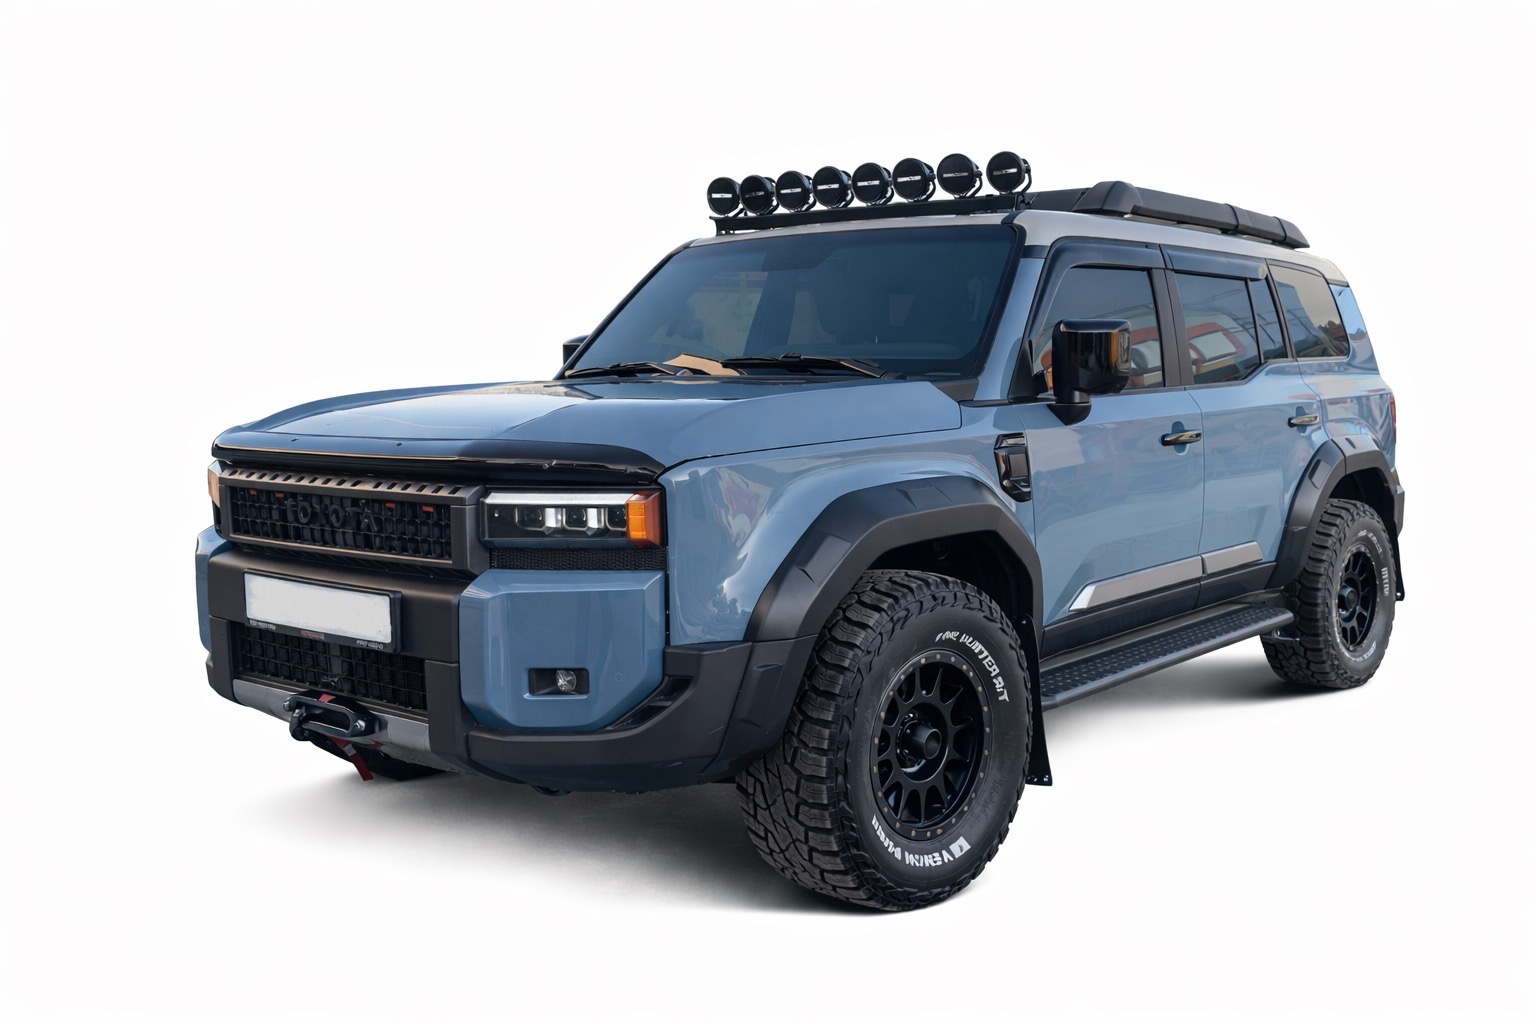
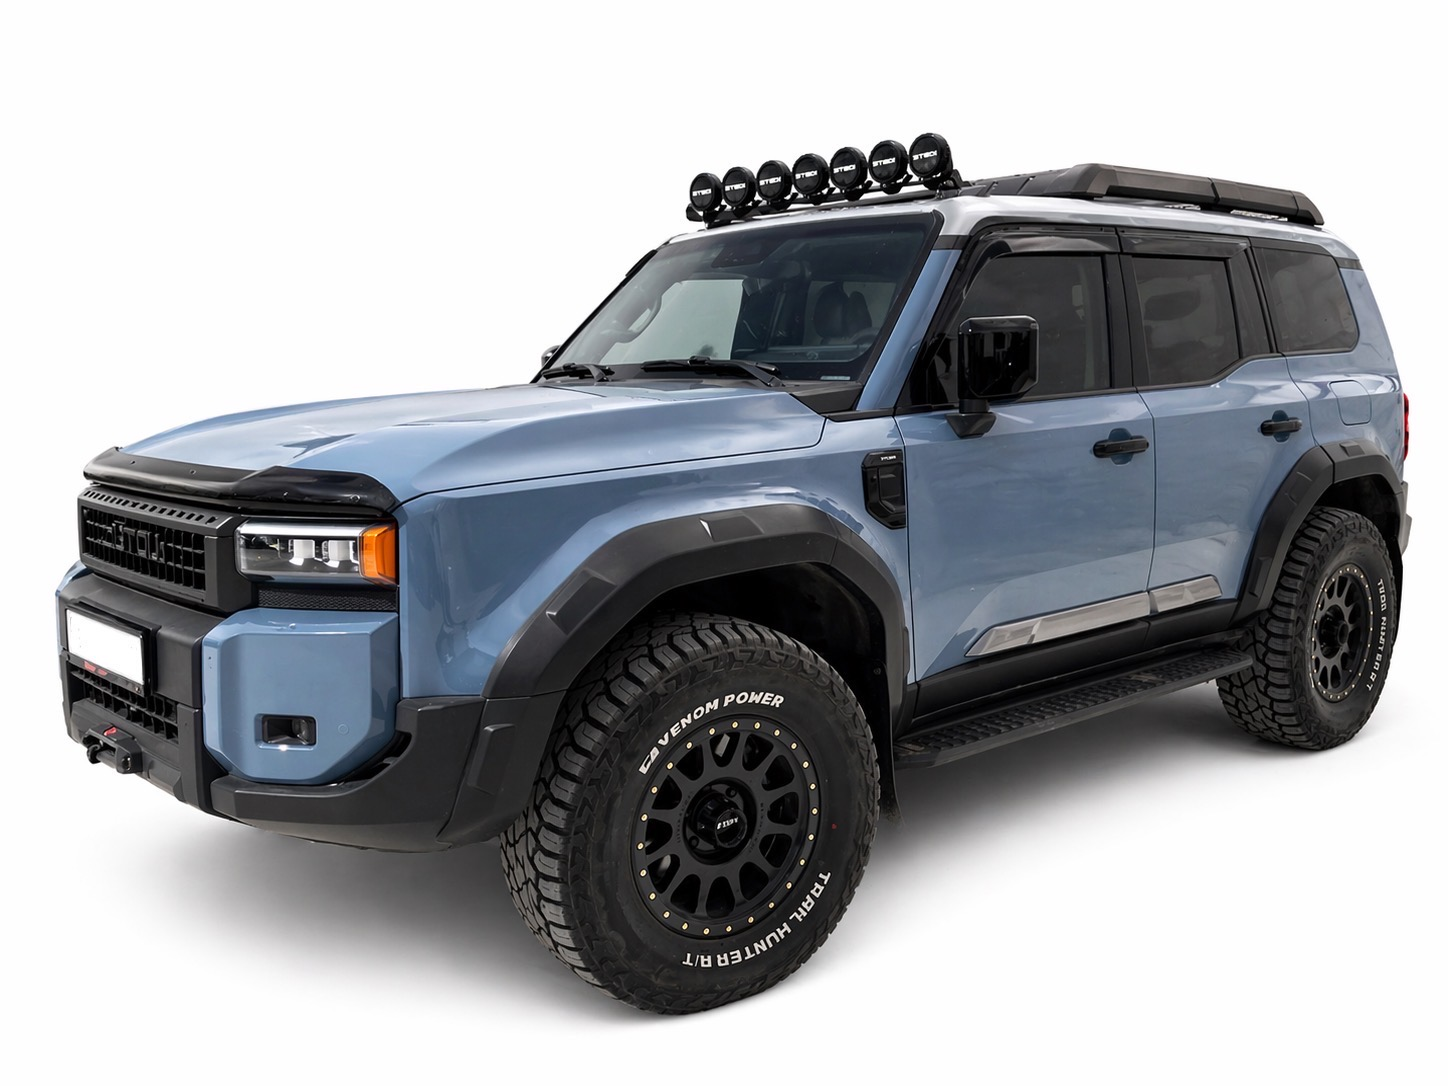
edits

diff --git a/src/components/Gallery.tsx b/src/components/Gallery.tsx
@@ -1,14 +1,14 @@
 import { useState, useRef } from 'react'
 import { Users, Settings2, Navigation, ChevronLeft, ChevronRight } from 'lucide-react'
 import thumbnail from '../public/background_image/thumbnail.jpeg'
-import img1024 from '../public/car_images/IMG_1024.jpg'
-import img1025 from '../public/car_images/IMG_1025.jpg'
 import img1018 from '../public/car_images/IMG_1018.JPG'
 import img1027 from '../public/car_images/IMG_1027.jpg'
 import img1028 from '../public/car_images/IMG_1028.jpg'
 import img1017 from '../public/car_images/IMG_1017.JPG'
 import img1029 from '../public/car_images/IMG_1029.jpg'
 import img1020 from '../public/car_images/IMG_1020.JPG'
+import img1180 from '../public/car_images/IMG_1180.PNG'
+import img1181 from '../public/car_images/IMG_1181.jpg'
 import lc250new from '../public/car_images/4F6F6AC4-75C1-45D1-A3AF-DCF3457E4522.PNG'
 import lc79new from '../public/car_images/10232F5F-7504-4E6C-80F2-098E53E1FC77.PNG'
 import jimny2 from '../public/car_images/B12EBDBD-1345-49E4-B1E2-8975089DF91D.JPEG'
@@ -20,32 +20,22 @@ import bike3 from '../public/bike_images/IMG_1035.jpg'
 import bike4 from '../public/bike_images/IMG_1084.JPG'
 import bike5 from '../public/bike_images/IMG_1085.JPG'
 import bike6 from '../public/bike_images/IMG_1086.JPG'
+import bike1172 from '../public/bike_images/IMG_1172.JPG'
 import loneRiderLogo from '../public/logo/Lone_rider_logo.png'
 import { useLang } from '../i18n'
 import { useInView } from '../hooks/useInView'
 
 const cars = [
   {
-    name: 'UAZ 452 "Bukhanka"',
-    price: 80,
-    images: [img1024],
-    seats: 7,
-    transmission: 'Manual',
-    drive: '4x4',
-    tag: 'Van · LHD',
-    description: '2600cc Soviet-built 4x4 van. Classic, durable, and unstoppable. Includes tent & full camping equipment.',
-    descriptionZh: '2600cc苏联制四驱面包车，经典耐用，所向披靡。含帐篷及全套野营装备。',
-  },
-  {
-    name: 'Toyota Land Cruiser 100',
+    name: 'Toyota FJ Cruiser 4.0 V6',
     price: 180,
-    images: [img1025],
+    images: [img1180, img1181],
     seats: 5,
     transmission: 'Automatic',
     drive: '4x4',
-    tag: 'SUV',
-    description: '4.7L V8 Auto — comfortable, smooth and powerful. Comes complete with tent & full camping equipment for the long road ahead.',
-    descriptionZh: '4.7升V8自动挡，舒适强劲。含帐篷及全套野营装备，为漫漫征途做好准备。',
+    tag: 'SUV · RHD',
+    description: '4.0L V6 Automatic RHD — off-road spec with roof storage and spotlights. Seats 5, full tent & camping equipment included.',
+    descriptionZh: '4.0升V6自动右舵——越野规格，配备车顶储物及探照灯。5座，含帐篷及全套野营装备。',
   },
   {
     name: 'Toyota Land Cruiser 79 2026',
@@ -101,6 +91,17 @@ const cars = [
     tag: 'Motorcycle',
     description: '300cc new model. Crash bars, ABS. Includes tent & camping equipment. Ready for the full Mongolian adventure.',
     descriptionZh: '300cc新款。防摔杠、ABS，含LONE RIDER行李储物、帐篷及野营装备，准备好踏上完整的蒙古之旅。',
+  },
+  {
+    name: 'CF MOTO CFLite 250 2026',
+    price: 70,
+    images: [bike1172],
+    seats: 2,
+    transmission: 'Manual',
+    drive: '2WD',
+    tag: 'Motorcycle',
+    description: 'Low seat height, off-road ready. Comes with Lone Rider luggage setup, tent and camping equipment.',
+    descriptionZh: '低座高，越野就绪。配备LONE RIDER行李设置、帐篷及野营装备。',
   },
 ]
 
